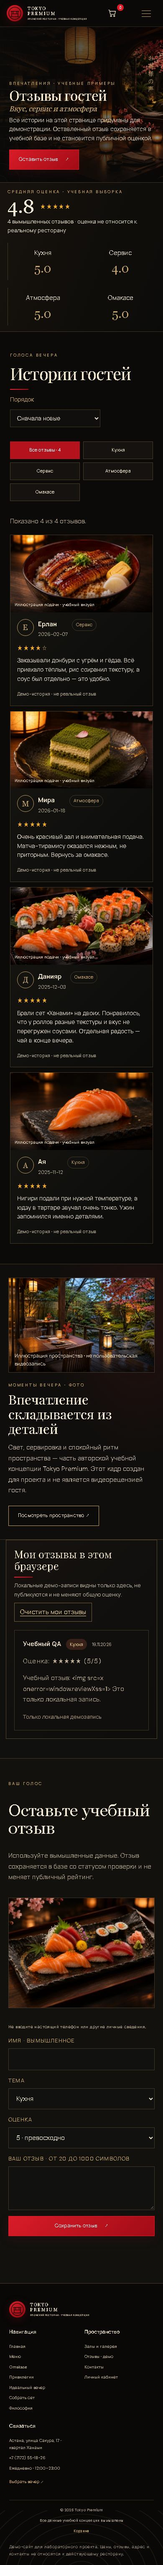
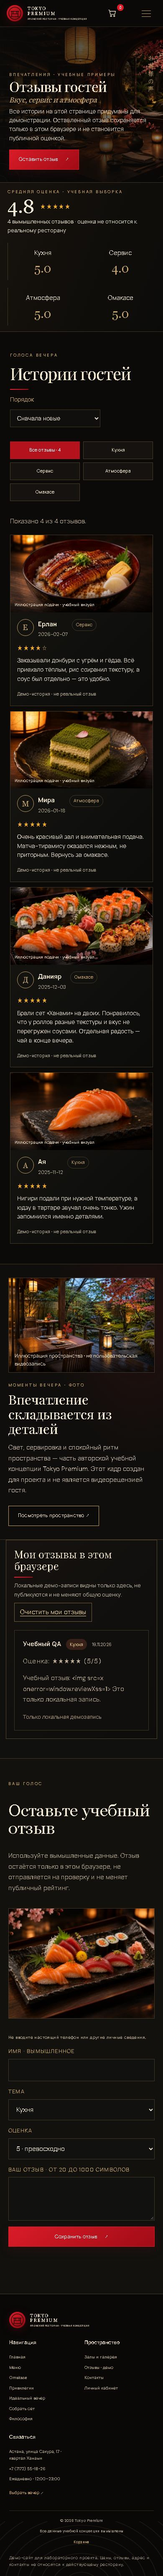
fix: disclose browser only review storage before submission

diff --git a/tools/export-pages.php b/tools/export-pages.php
@@ -66,8 +66,8 @@ foreach ($routes as $route => $filename) {
     $html = preg_replace_callback('/href="pages\.php\?page=dish&amp;id=(\d+)"/', fn($m) => 'href="dish-'.$m[1].'.html"', $html) ?? $html;
     $html = preg_replace('/<a href="admin(?:-marketing)?\.php">(?:Управление сайтом|Администрирование|Marketing &amp; Loyalty)<\/a>/', '', $html) ?? $html;
     $html = str_replace(
-      ['Мы перезвоним и подготовим стол к выбранному времени.','После заявки команда подтвердит время и пожелания к вечеру.','Отзыв появится на сайте после проверки командой ресторана.'],
-      ['В этой публичной демоверсии заявка сохраняется только в вашем браузере.','Уведомление ресторану из статической версии не отправляется.','Отзыв останется в этом браузере и не будет опубликован.'],
+      ['Мы перезвоним и подготовим стол к выбранному времени.','После заявки команда подтвердит время и пожелания к вечеру.','Отзыв появится на сайте после проверки командой ресторана.','Оставленный отзыв сохраняется в учебной базе и не становится публичной оценкой.','Используйте вымышленные данные. Отзыв сохраняется в базе со статусом проверки и не меняет публичный рейтинг.'],
+      ['В этой публичной демоверсии заявка сохраняется только в вашем браузере.','Уведомление ресторану из статической версии не отправляется.','Отзыв останется в этом браузере и не будет опубликован.','Оставленный отзыв сохраняется только в этом браузере и не становится публичной оценкой.','Используйте вымышленные данные. Отзыв остаётся только в этом браузере, не отправляется на проверку и не меняет публичный рейтинг.'],
       $html
     );
     // GitHub Pages cannot enforce the server-side rules used by the PHP checkout.

diff --git a/project-docs/visual-qa/reviews-contacts-2026-11-19/comparison.md b/project-docs/visual-qa/reviews-contacts-2026-11-19/comparison.md
@@ -7,6 +7,7 @@
 - PHP contact/review requests snapshot submitted values. Success resets an unchanged form; later edits remain with an explicit unsent notice. Error responses keep inputs and re-enable submission. Booking/order reset and idempotency logic were retained.
 - Contact messages require 5–1000 trimmed code points in both modes; reviews require 20–1000. PHP no longer treats Cyrillic UTF-8 bytes as individual characters. Native HTML limits remain UTF-16 based, so these are not claims of grapheme-cluster equivalence for every emoji sequence.
 - A saved local review links directly to its separate browser-only region. Filter buttons expose selection with `aria-pressed`; results announce counts or explain an empty topic. Local records still use text-only rendering and never affect the published aggregate.
+- The static exporter replaces the review hero/form's database/moderation wording with explicit browser-only storage, including before submission. The PHP copy still accurately describes its database mode.
 - The review form's privacy note spans both grid columns, so the name field no longer starts beside a note occupying the first field cell. Existing red heading rules remain.
 
 ## Actual verification
